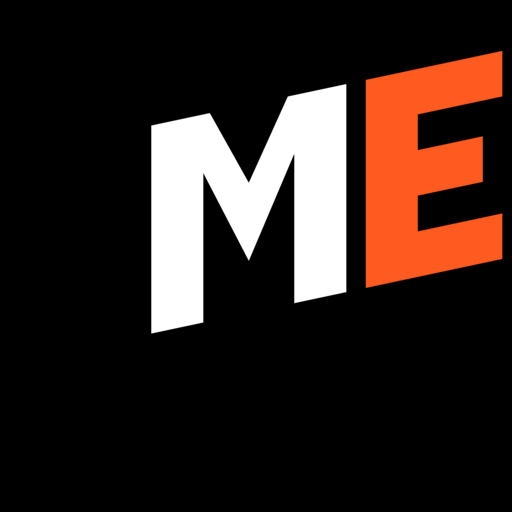
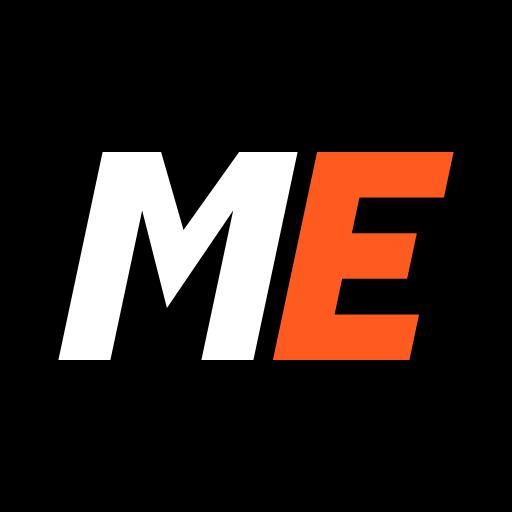
Update

Changed region(s): [[0.0938, 0.0938, 1.0, 0.7188]]

diff --git a/cenovnik.html b/cenovnik.html
@@ -21,12 +21,12 @@ heroSubtitle: "Pametna selidba počinje sa expertima"
             pristup svakom klijentu.
         </div>
     </div>
-    <a class="btn filled full-width hover-scale" href="tel:[phone redacted]">📞 Pozovi sada – saznaj tačnu cenu odmah<br/>
+    <a class="btn filled full-width hover-scale" href="tel:[phone redacted]">📞 Pozovi sada – saznaj tačnu cenu odmah<br/>
         <span class="sub">👉 Kliknite za poziv</span>
     </a>
     <div class="small m3">Bez obaveze – samo informacija o ceni</div>
     <div class="center">
-        <a class="btn outline glow" href="tel:[phone redacted]">📞 Besplatna procena za 30 sekundi</a>
+        <a class="btn outline glow" href="tel:[phone redacted]">📞 Besplatna procena za 30 sekundi</a>
     </div>
     <div class="medium m3">Kliknite na uslugu i pozovite za cenu</div>
 
@@ -205,8 +205,8 @@ heroSubtitle: "Pametna selidba počinje sa expertima"
         <div class="notes">Cena selidbe zavisi od više faktora: količine stvari, sprata i postojanja lifta, udaljenosti
             između lokacija, kao i dodatnih usluga poput montaže, pakovanja i slično. Za tačnu cenu dovoljno je da pošaljete
             slike ili pozovete – dobijate jasnu procenu bez skrivenih troškova.<br/><br/>Za detalje pogledajte <a
-                    href="medjugradske-selidbe.html">međugradske
-                selidbe</a> ili <a href="odnosenje-starog-namestaja.html"
+                    href="/medjugradske-selidbe">međugradske
+                selidbe</a> ili <a href="/odnosenje-starog-namestaja"
             >odnošenje starog
                 nameštaja</a>.<br/><br/>Radimo selidbe na teritoriji celog Beograda i okoline, uključujući Novi Beograd,
             Zemun, Voždovac, Zvezdaru i ostale opštine.
@@ -250,13 +250,13 @@ heroSubtitle: "Pametna selidba počinje sa expertima"
 <div class="container-m">
     <div class="seo-links-card mt3"><h2>Povezane usluge</h2>
         <p>Ako vam je pored cenovnika potrebna i dodatna usluga, pogledajte povezane stranice ispod.</p>
-        <div class="seo-links-list"><a href="odnosenje-starog-namestaja.html">
+        <div class="seo-links-list"><a href="/odnosenje-starog-namestaja">
             <div>Odnošenje starog nameštaja</div>
-            <span>Odvoz i iznošenje nepotrebnih stvari po dogovoru.</span></a><a href="medjugradske-selidbe.html">
+            <span>Odvoz i iznošenje nepotrebnih stvari po dogovoru.</span></a><a href="/medjugradske-selidbe">
             <div>Međugradske selidbe</div>
-            <span>Selidbe i prevoz stvari između gradova širom Srbije.</span></a><a href="prevoz-namestaja.html">
+            <span>Selidbe i prevoz stvari između gradova širom Srbije.</span></a><a href="/prevoz-namestaja">
             <div>Prevoz nameštaja</div>
-            <span>Brz prevoz jedne ili više stvari uz dogovor unapred.</span></a><a href="selidbe-beograd.html">
+            <span>Brz prevoz jedne ili više stvari uz dogovor unapred.</span></a><a href="/selidbe-beograd">
             <div>Selidbe Beograd</div>
             <span>Kompletna usluga selidbe stanova i poslovnih prostora.</span></a></div>
     </div>
@@ -266,7 +266,7 @@ heroSubtitle: "Pametna selidba počinje sa expertima"
     <div class="service-modal">
         <div class="service-modal-title" id="serviceModalTitle">Izaberite način kontakta</div>
         <div class="service-modal-text" id="serviceModalText">Pozovite ili pošaljite poruku za izabranu uslugu.</div>
-        <div class="service-modal-actions"><a class="service-action-btn service-call-btn" href="tel:[phone redacted]"
+        <div class="service-modal-actions"><a class="service-action-btn service-call-btn" href="tel:[phone redacted]"
                                               id="serviceCallBtn">📞 Poziv</a><a
                 class="service-action-btn service-wa-btn" href="https://wa.me/381659410699" id="serviceWaBtn"
                 rel="noopener noreferrer" target="_blank">💬 WhatsApp</a></div>
@@ -315,7 +315,7 @@ heroSubtitle: "Pametna selidba počinje sa expertima"
 
                 modalTitle.textContent = serviceName;
                 modalText.textContent = "Izaberite da li želite poziv ili WhatsApp poruku za ovu uslugu.";
-                callBtn.href = "tel:[phone redacted]";
+                callBtn.href = "tel:[phone redacted]";
                 waBtn.href = buildWhatsAppMessage(sectionTitle, serviceName, liftInfo);
                 overlay.classList.add("active");
             });

diff --git a/cena-selidbe.html b/cena-selidbe.html
@@ -22,7 +22,7 @@ heroSubtitle: "Pametan izbor cene počinje sa expertima"
 
     <div class="urgency-line">Jasan obračun, tačan dogovor i cena bez neprijatnih iznenađenja.</div>
 
-    <a class="phone-cta-card" href="tel:[phone redacted]">
+    <a class="phone-cta-card" href="tel:[phone redacted]">
         <span class="phone-cta-icon">📞</span>
         <span class="phone-cta-text">065 / [phone redacted]</span>
     </a>
@@ -89,8 +89,8 @@ heroSubtitle: "Pametan izbor cene počinje sa expertima"
             <li>nošenje, utovar, istovar i zaštita nameštaja,</li>
             <li>pakovanje, demontaža i druge dodatne usluge.</li>
         </ul>
-        <p>Ako želite tačne kategorije usluga i okvirne iznose, pogledajte i <a href="cenovnik.html">cenovnik usluga</a>.
-            Za kompletnu realizaciju pogledajte i <a href="selidbe-beograd.html">selidbe Beograd</a>.</p>
+        <p>Ako želite tačne kategorije usluga i okvirne iznose, pogledajte i <a href="/cenovnik">cenovnik usluga</a>.
+            Za kompletnu realizaciju pogledajte i <a href="/selidbe-beograd">selidbe Beograd</a>.</p>
     </div>
     <div class="long-card">
         <h2>Kako funkcioniše procena cene</h2>
@@ -118,19 +118,19 @@ heroSubtitle: "Pametan izbor cene počinje sa expertima"
         <h2>Povezane usluge</h2>
         <p>Ako vam je pored procene cene potrebna i dodatna usluga, pogledajte povezane stranice ispod.</p>
         <div class="seo-links-list">
-            <a href="odnosenje-starog-namestaja.html">
+            <a href="/odnosenje-starog-namestaja">
                 <div>Odnošenje starog nameštaja</div>
                 <span>Odvoz i iznošenje nepotrebnih stvari po dogovoru.</span>
             </a>
-            <a href="medjugradske-selidbe.html">
+            <a href="/medjugradske-selidbe">
                 <div>Međugradske selidbe</div>
                 <span>Selidbe i prevoz stvari između gradova širom Srbije.</span>
             </a>
-            <a href="cenovnik.html">
+            <a href="/cenovnik">
                 <div>Cenovnik usluga</div>
                 <span>Pogledajte okvirne cene naših usluga.</span>
             </a>
-            <a href="selidbe-beograd.html">
+            <a href="/selidbe-beograd">
                 <div>Selidbe Beograd</div>
                 <span>Kompletna usluga selidbe stanova i poslovnih prostora.</span>
             </a>

diff --git a/prevoz-namestaja.html b/prevoz-namestaja.html
@@ -22,7 +22,7 @@ heroSubtitle: "Pametna selidba počinje sa expertima"
 
     <div class="urgency-line">Brz odgovor, tačan dolazak i prevoz bez komplikacija.</div>
 
-    <a class="phone-cta-card" href="tel:[phone redacted]">
+    <a class="phone-cta-card" href="tel:[phone redacted]">
         <span class="phone-cta-icon">📞</span>
         <span class="phone-cta-text">065 / [phone redacted]</span>
     </a>
@@ -93,8 +93,8 @@ heroSubtitle: "Pametna selidba počinje sa expertima"
         </ul>
         <p>Nije važno da li vam treba prevoz jedne stvari ili više komada nameštaja – cilj je da dobijete uslugu koja je
             organizovana, sigurna i vremenski precizna. Ako vam je potreban kompletan proces, pogledajte i <a
-                    href="selidbe-beograd.html" style="color:#ff8a45;font-weight:700;text-decoration:none;">selidbe
-                Beograd</a>. Za odvoz nepotrebnih stvari pogledajte <a href="odnosenje-starog-namestaja.html"
+                    href="/selidbe-beograd" style="color:#ff8a45;font-weight:700;text-decoration:none;">selidbe
+                Beograd</a>. Za odvoz nepotrebnih stvari pogledajte <a href="/odnosenje-starog-namestaja"
                                                                        style="color:#ff8a45;font-weight:700;text-decoration:none;">odnošenje
                 starog nameštaja</a>.</p>
     </div>
@@ -118,19 +118,19 @@ heroSubtitle: "Pametna selidba počinje sa expertima"
         <h2>Povezane usluge</h2>
         <p>Ako vam je pored prevoza nameštaja potrebna i dodatna usluga, pogledajte povezane stranice ispod.</p>
         <div class="seo-links-list">
-            <a href="odnosenje-starog-namestaja.html">
+            <a href="/odnosenje-starog-namestaja">
                 <div>Odnošenje starog nameštaja</div>
                 <span>Odvoz i iznošenje nepotrebnih stvari po dogovoru.</span>
             </a>
-            <a href="medjugradske-selidbe.html">
+            <a href="/medjugradske-selidbe">
                 <div>Međugradske selidbe</div>
                 <span>Selidbe i prevoz stvari između gradova širom Srbije.</span>
             </a>
-            <a href="cenovnik.html">
+            <a href="/cenovnik">
                 <div>Cenovnik usluga</div>
                 <span>Pogledajte okvirne cene naših usluga.</span>
             </a>
-            <a href="selidbe-beograd.html">
+            <a href="/selidbe-beograd">
                 <div>Selidbe Beograd</div>
                 <span>Kompletna usluga selidbe stanova i poslovnih prostora.</span>
             </a>

diff --git a/kombi-prevoz.html b/kombi-prevoz.html
@@ -23,7 +23,7 @@ heroSubtitle: "Pametan kombi prevoz počinje sa expertima"
 
     <div class="urgency-line">Brz odgovor, tačan dolazak i kombi prevoz bez komplikacija.</div>
 
-    <a class="phone-cta-card" href="tel:[phone redacted]">
+    <a class="phone-cta-card" href="tel:[phone redacted]">
         <span class="phone-cta-icon">📞</span>
         <span class="phone-cta-text">065 / [phone redacted]</span>
     </a>
@@ -93,7 +93,7 @@ heroSubtitle: "Pametan kombi prevoz počinje sa expertima"
         </ul>
         <p>Nije važno da li vam treba prevoz nekoliko stvari ili manja selidba – cilj je da dobijete uslugu koja je
             brza, sigurna i organizovana. Ako vam treba specijalizovan prevoz, pogledajte i <a
-                    href="prevoz-namestaja.html">prevoz nameštaja</a>.</p>
+                    href="/prevoz-namestaja">prevoz nameštaja</a>.</p>
     </div>
     <div class="long-card">
         <h2>Kako funkcioniše kombi prevoz</h2>
@@ -122,19 +122,19 @@ heroSubtitle: "Pametan kombi prevoz počinje sa expertima"
         <h2>Povezane usluge</h2>
         <p>Ako vam je pored kombi prevoza potrebna i dodatna usluga, pogledajte povezane stranice ispod.</p>
         <div class="seo-links-list">
-            <a href="odnosenje-starog-namestaja.html">
+            <a href="/odnosenje-starog-namestaja">
                 <div>Odnošenje starog nameštaja</div>
                 <span>Odvoz i iznošenje nepotrebnih stvari po dogovoru.</span>
             </a>
-            <a href="medjugradske-selidbe.html">
+            <a href="/medjugradske-selidbe">
                 <div>Međugradske selidbe</div>
                 <span>Selidbe i prevoz stvari između gradova širom Srbije.</span>
             </a>
-            <a href="cenovnik.html">
+            <a href="/cenovnik">
                 <div>Cenovnik usluga</div>
                 <span>Pogledajte okvirne cene naših usluga.</span>
             </a>
-            <a href="selidbe-beograd.html">
+            <a href="/selidbe-beograd">
                 <div>Selidbe Beograd</div>
                 <span>Kompletna usluga selidbe stanova i poslovnih prostora.</span>
             </a>

diff --git a/selidbe-beograd.html b/selidbe-beograd.html
@@ -22,7 +22,7 @@ heroSubtitle: "Pametna selidba počinje sa expertima"
 
     <div class="urgency-line">Tačan dolazak, sigurna realizacija i selidba bez komplikacija.</div>
 
-    <a class="phone-cta-card" href="tel:[phone redacted]">
+    <a class="phone-cta-card" href="tel:[phone redacted]">
         <span class="phone-cta-icon">📞</span>
         <span class="phone-cta-text">065 / [phone redacted]</span>
     </a>
@@ -93,7 +93,7 @@ heroSubtitle: "Pametna selidba počinje sa expertima"
             i drugu opremu potrebnu za kompletnu selidbu.</p>
         <p>Nije važno da li se seli manji stan, kuća ili poslovni prostor – cilj je da dobijete uslugu koja je
             organizovana, sigurna i vremenski precizna. Ako vam treba procena troškova, pogledajte i <a
-                    href="cena-selidbe.html">cena selidbe</a>.</p>
+                    href="/cena-selidbe">cena selidbe</a>.</p>
     </div>
     <div class="long-card">
         <h2>Kako funkcioniše selidba</h2>
@@ -122,19 +122,19 @@ heroSubtitle: "Pametna selidba počinje sa expertima"
         <h2>Povezane usluge</h2>
         <p>Ako vam je pored selidbe u Beogradu potrebna i dodatna usluga, pogledajte povezane stranice ispod.</p>
         <div class="seo-links-list">
-            <a href="odnosenje-starog-namestaja.html">
+            <a href="/odnosenje-starog-namestaja">
                 <div>Odnošenje starog nameštaja</div>
                 <span>Odvoz i iznošenje nepotrebnih stvari po dogovoru.</span>
             </a>
-            <a href="medjugradske-selidbe.html">
+            <a href="/medjugradske-selidbe">
                 <div>Međugradske selidbe</div>
                 <span>Selidbe i prevoz stvari između gradova širom Srbije.</span>
             </a>
-            <a href="cenovnik.html">
+            <a href="/cenovnik">
                 <div>Cenovnik usluga</div>
                 <span>Pogledajte okvirne cene naših usluga.</span>
             </a>
-            <a href="selidbe-stanova.html">
+            <a href="/selidbe-stanova">
                 <div>Selidbe stanova</div>
                 <span>Selidbe garsonjera, jednosobnih i većih stanova.</span>
             </a>

diff --git a/selidbe-stanova.html b/selidbe-stanova.html
@@ -24,7 +24,7 @@ heroSubtitle: "Pametna selidba stana počinje sa expertima"
 
     <div class="urgency-line">Tačan dolazak, sigurna realizacija i selidba bez komplikacija.</div>
 
-    <a class="phone-cta-card" href="tel:[phone redacted]">
+    <a class="phone-cta-card" href="tel:[phone redacted]">
         <span class="phone-cta-icon">📞</span>
         <span class="phone-cta-text">065 / [phone redacted]</span>
     </a>
@@ -95,7 +95,7 @@ heroSubtitle: "Pametna selidba stana počinje sa expertima"
         </ul>
         <p>Nije važno da li se seli garsonjera ili veći stan – cilj je da dobijete uslugu koja je organizovana, sigurna
             i vremenski precizna. Ako vam treba samo prevoz pojedinih stvari, pogledajte i <a
-                    href="prevoz-namestaja.html">prevoz nameštaja</a>.</p>
+                    href="/prevoz-namestaja">prevoz nameštaja</a>.</p>
     </div>
     <div class="long-card">
         <h2>Kako funkcioniše selidba stana</h2>
@@ -124,19 +124,19 @@ heroSubtitle: "Pametna selidba stana počinje sa expertima"
         <h2>Povezane usluge</h2>
         <p>Ako vam je pored selidbe stana potrebna i dodatna usluga, pogledajte povezane stranice ispod.</p>
         <div class="seo-links-list">
-            <a href="odnosenje-starog-namestaja.html">
+            <a href="/odnosenje-starog-namestaja">
                 <div>Odnošenje starog nameštaja</div>
                 <span>Odvoz i iznošenje nepotrebnih stvari po dogovoru.</span>
             </a>
-            <a href="medjugradske-selidbe.html">
+            <a href="/medjugradske-selidbe">
                 <div>Međugradske selidbe</div>
                 <span>Selidbe i prevoz stvari između gradova širom Srbije.</span>
             </a>
-            <a href="cenovnik.html">
+            <a href="/cenovnik">
                 <div>Cenovnik usluga</div>
                 <span>Pogledajte okvirne cene naših usluga.</span>
             </a>
-            <a href="selidbe-beograd.html">
+            <a href="/selidbe-beograd">
                 <div>Selidbe Beograd</div>
                 <span>Kompletna usluga selidbe stanova i poslovnih prostora.</span>
             </a>

diff --git a/odnosenje-starog-namestaja.html b/odnosenje-starog-namestaja.html
@@ -20,7 +20,7 @@ heroSubtitle: "Pametna selidba počinje sa expertima"
         Dolazimo na adresu, bezbedno iznosimo, profesionalno utovaramo i organizovano odnosimo sve stvari.
     </div>
     <div class="urgency-line">Dolazak u najkraćem roku, često već isti dan.</div>
-    <a class="phone-cta-card" href="tel:[phone redacted]">
+    <a class="phone-cta-card" href="tel:[phone redacted]">
         <span class="phone-cta-icon">📞</span>
         <span class="phone-cta-text">065 / [phone redacted]</span>
     </a>
@@ -86,13 +86,13 @@ heroSubtitle: "Pametna selidba počinje sa expertima"
         <h2>Povezane usluge</h2>
         <p>Ako vam je pored odnošenja starog nameštaja potrebna i selidba, prevoz stvari ili pregled cena, pogledajte i
             povezane stranice ispod.</p>
-        <div class="seo-links-list"><a href="cenovnik.html">
+        <div class="seo-links-list"><a href="/cenovnik">
             <div>Cenovnik usluga</div>
-            <span>Pogledajte okvirne cene naših usluga.</span></a><a href="medjugradske-selidbe.html">
+            <span>Pogledajte okvirne cene naših usluga.</span></a><a href="/medjugradske-selidbe">
             <div>Međugradske selidbe širom Srbije</div>
-            <span>Selidbe i prevoz stvari između gradova.</span></a><a href="selidbe-beograd.html">
+            <span>Selidbe i prevoz stvari između gradova.</span></a><a href="/selidbe-beograd">
             <div>Selidbe Beograd</div>
-            <span>Kompletna usluga selidbe stanova i poslovnih prostora.</span></a><a href="index.html">
+            <span>Kompletna usluga selidbe stanova i poslovnih prostora.</span></a><a href="/prevoz-namestaja">
             <div>Prevoz nameštaja</div>
             <span>Brz prevoz jedne ili više stvari po dogovoru.</span></a></div>
     </div>

diff --git a/_data/site.js b/_data/site.js
@@ -1,0 +1,4 @@
+export default {
+  url: "https://www.moveexpertselidbe.com",
+  name: "Move Expert",
+};

diff --git a/medjugradske-selidbe.html b/medjugradske-selidbe.html
@@ -14,7 +14,7 @@ heroSubtitle: "Pametna selidba počinje sa expertima"
     <div class="pro-line">Organizujemo kompletnu međugradsku selidbu – od utovara i zaštite stvari do sigurnog transporta
         i tačnog dolaska na adresu.</div>
 
-    <a class="phone-cta-card" href="tel:[phone redacted]">
+    <a class="phone-cta-card" href="tel:[phone redacted]">
         <span class="phone-cta-icon">📞</span>
         <span class="phone-cta-text">065 / [phone redacted]</span>
     </a>